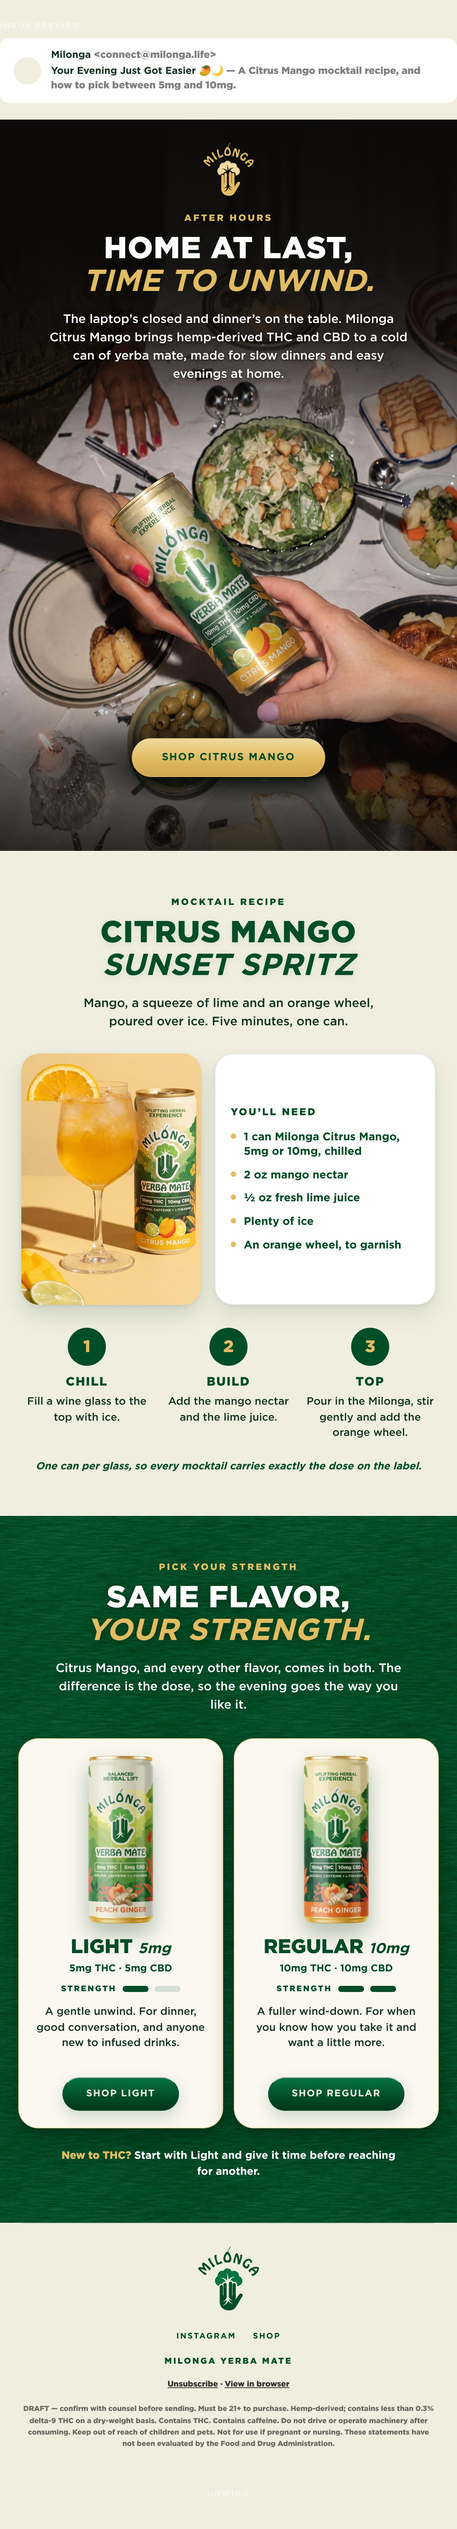
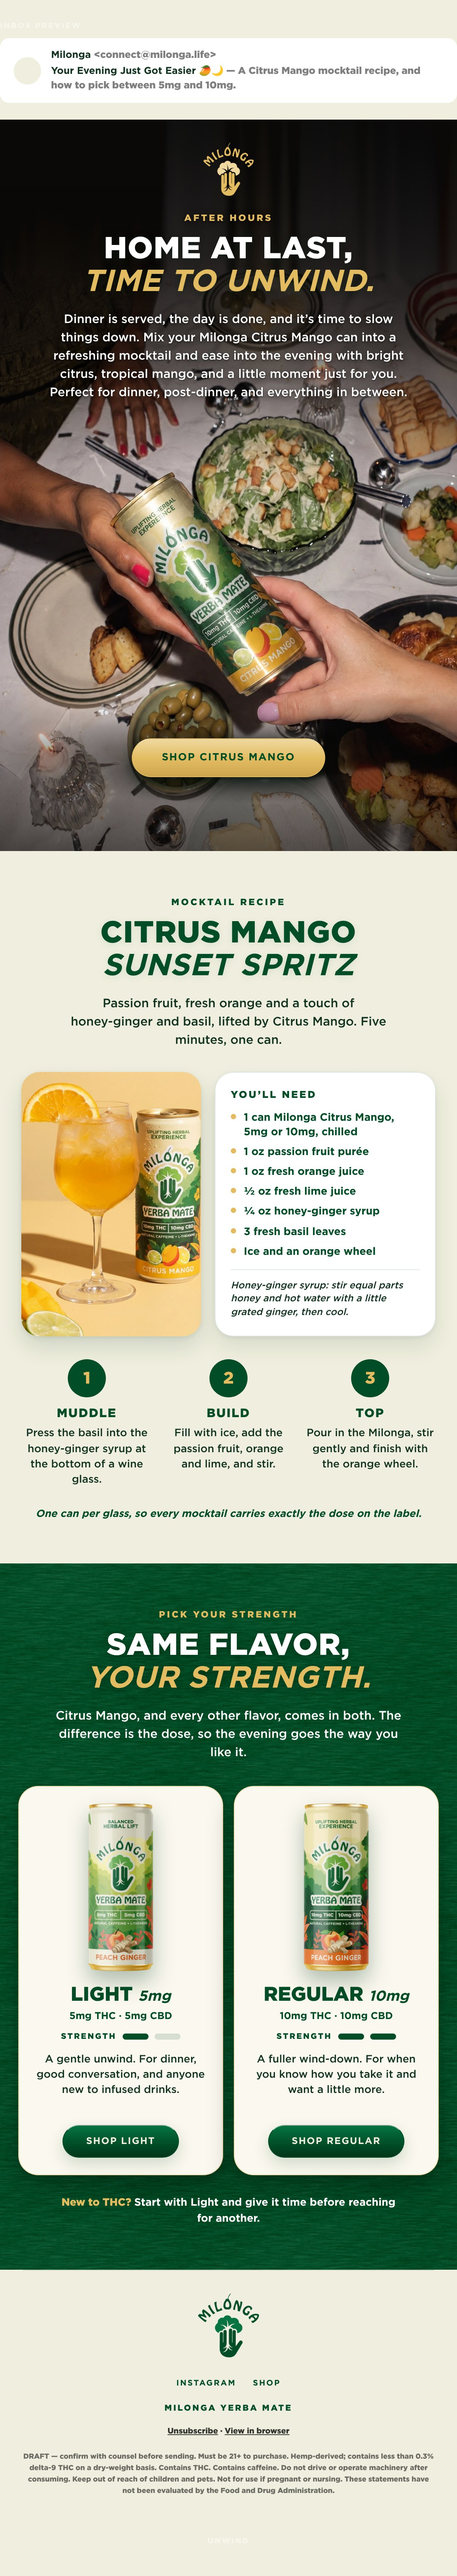
email: Unwind — Bernat's opener copy, lighter grade, richer mocktail
Opener paragraph is Bernat's, word for word; the warm grade over the
dinner photograph is eased about a fifth. The Sunset Spritz now layers
passion fruit, fresh orange, lime, honey-ginger syrup and basil over the
Citrus Mango, with a one-line syrup method, and the steps become Muddle,
Build, Top.

Claude-Session: https://claude.ai/code/session_01NhEtXPnfeCJfN73SqBkUZ5

diff --git a/email-ds/emails/unwind.jsx b/email-ds/emails/unwind.jsx
@@ -42,22 +42,27 @@ function PhotoSlot({ w, h: hh, brief, dark, radius = 0 }) {
 // ── The mocktail ─────────────────────────────────────────────────────────
 // One can per glass, so each mocktail carries exactly the dose on the can's
 // label; no alcohol in the recipe.
-// THE RECIPE FOLLOWS THE PHOTOGRAPH Bernat sent: a wine glass over ice, an
-// orange wheel on the rim, mango and lime beside it.
+// THE RECIPE FOLLOWS THE PHOTOGRAPH Bernat sent — a wine glass over ice,
+// an orange wheel on the rim — and layers more flavour on the can's citrus
+// and mango (Bernat): passion fruit, fresh orange, lime, honey-ginger and
+// basil. Nothing in it contains alcohol (no bitters).
 const RECIPE = {
   name: ['Citrus Mango', 'Sunset Spritz'],
-  intro: 'Mango, a squeeze of lime and an orange wheel, poured over ice. Five minutes, one can.',
+  intro: 'Passion fruit, fresh orange and a touch of honey-ginger and basil, lifted by Citrus Mango. Five minutes, one can.',
   ingredients: [
     '1 can Milonga Citrus Mango, 5mg or 10mg, chilled',
-    '2 oz mango nectar',
+    '1 oz passion fruit purée',
+    '1 oz fresh orange juice',
     '½ oz fresh lime juice',
-    'Plenty of ice',
-    'An orange wheel, to garnish',
+    '¼ oz honey-ginger syrup',
+    '3 fresh basil leaves',
+    'Ice and an orange wheel',
   ],
+  syrup: 'Honey-ginger syrup: stir equal parts honey and hot water with a little grated ginger, then cool.',
   steps: [
-    ['Chill', 'Fill a wine glass to the top with ice.'],
-    ['Build', 'Add the mango nectar and the lime juice.'],
-    ['Top', 'Pour in the Milonga, stir gently and add the orange wheel.'],
+    ['Muddle', 'Press the basil into the honey-ginger syrup at the bottom of a wine glass.'],
+    ['Build', 'Fill with ice, add the passion fruit, orange and lime, and stir.'],
+    ['Top', 'Pour in the Milonga, stir gently and finish with the orange wheel.'],
   ],
   note: 'One can per glass, so every mocktail carries exactly the dose on the label.',
 };
@@ -81,11 +86,13 @@ const HERO_H = 960;
 const CTA_TOP = 812;
 
 const SECTION_1_ALT =
-  'Milonga. After hours. Home at last, time to unwind. The laptop’s closed and ' +
-  'dinner’s on the table. Milonga Citrus Mango brings hemp-derived THC and CBD ' +
-  'to a cold can of yerba mate, made for slow dinners and easy evenings at ' +
-  'home. Two hands pass a can of Milonga Citrus Mango, 10mg THC and 10mg CBD, ' +
-  'across a candlelit dinner table. Shop Citrus Mango.';
+  'Milonga. After hours. Home at last, time to unwind. Dinner is served, the ' +
+  'day is done, and it’s time to slow things down. Mix your Milonga Citrus ' +
+  'Mango can into a refreshing mocktail and ease into the evening with bright ' +
+  'citrus, tropical mango, and a little moment just for you. Perfect for ' +
+  'dinner, post-dinner, and everything in between. Two hands pass a can of ' +
+  'Milonga Citrus Mango, 10mg THC and 10mg CBD, across a candlelit dinner ' +
+  'table. Shop Citrus Mango.';
 const SECTION_2_PHOTO_ALT =
   'The Citrus Mango Sunset Spritz in a wine glass over ice with an orange ' +
   'wheel, beside a can of Milonga Citrus Mango, 10mg THC and 10mg CBD, with ' +
@@ -145,16 +152,16 @@ function Unwind({ shopHref = '#shop' }) {
       h('img', { src: '../public/product/unwind-dinner-tall.jpg', alt: SECTION_1_ALT,
         style: { position: 'absolute', top: 0, left: 0, width: 600, height: 'auto', display: 'block' } }),
       h('div', { style: { position: 'absolute', inset: 0,
-        background: 'linear-gradient(180deg, rgba(13,11,9,0.95) 0%, rgba(13,11,9,0.88) 18%, rgba(13,11,9,0.68) 30%, rgba(13,11,9,0.3) 38%, rgba(13,11,9,0) 45%, rgba(13,11,9,0) 76%, rgba(13,11,9,0.5) 88%, rgba(13,11,9,0.82) 100%)' } }),
+        background: 'linear-gradient(180deg, rgba(13,11,9,0.80) 0%, rgba(13,11,9,0.70) 18%, rgba(13,11,9,0.50) 31%, rgba(13,11,9,0.2) 40%, rgba(13,11,9,0) 47%, rgba(13,11,9,0) 78%, rgba(13,11,9,0.36) 89%, rgba(13,11,9,0.64) 100%)' } }),
       h('div', { style: { position: 'absolute', top: 30, left: 36, right: 36, textAlign: 'center',
         textShadow: '0 2px 10px rgba(0,0,0,0.55), 0 1px 2px rgba(0,0,0,0.45)' } },
         h(M.Logo, { tone: 'gold', variant: 'primary', height: 70 }),
         h('div', { style: { marginTop: 18 } }, eyebrow('After hours', GOLD)),
         h(M.Headline, { line1: 'Home at last,', line2: 'time to unwind.', bg: 'forest', size: 40, align: 'center',
           color: '#FFFFFF', line2Color: GOLD, italic: true }),
-        para('The laptop’s closed and dinner’s on the table. Milonga Citrus Mango brings hemp-derived THC and CBD to a cold can of yerba mate, made for slow dinners and easy evenings at home.', '#FFFFFF')),
+        para('Dinner is served, the day is done, and it’s time to slow things down. Mix your Milonga Citrus Mango can into a refreshing mocktail and ease into the evening with bright citrus, tropical mango, and a little moment just for you. Perfect for dinner, post-dinner, and everything in between.', '#FFFFFF')),
       h('div', { style: { position: 'absolute', top: CTA_TOP - 34, left: 0, right: 0, height: 120,
-        background: 'radial-gradient(ellipse 50% 50% at 50% 50%, rgba(13,11,9,0.7) 0%, rgba(13,11,9,0.4) 55%, rgba(13,11,9,0) 100%)' } }),
+        background: 'radial-gradient(ellipse 50% 50% at 50% 50%, rgba(13,11,9,0.55) 0%, rgba(13,11,9,0.3) 55%, rgba(13,11,9,0) 100%)' } }),
       h('div', { style: { position: 'absolute', top: CTA_TOP, left: 0, right: 0, textAlign: 'center' } },
         h('div', { style: { display: 'inline-block', borderRadius: 999,
           boxShadow: '0 10px 24px rgba(0,0,0,0.5), 0 2px 6px rgba(0,0,0,0.4)' } },
@@ -168,11 +175,11 @@ function Unwind({ shopHref = '#shop' }) {
       h('div', { style: { textAlign: 'center' } },
         eyebrow('Mocktail recipe', FOREST),
         h(M.Headline, { line1: RECIPE.name[0], line2: RECIPE.name[1], bg: 'beige', size: 40, align: 'center', italic: true }),
-        para(RECIPE.intro, INK, 440)),
+        para(RECIPE.intro.split('honey-ginger').flatMap((t, i) => i ? [h('span', { key: i, style: { whiteSpace: 'nowrap' } }, 'honey-ginger'), t] : [t]), INK, 440)),
       h('div', { style: { display: 'flex', gap: 18, marginTop: 30, alignItems: 'stretch' } },
         h('div', { style: { flex: '0 0 236px' } },
           h('img', { src: '../public/product/mocktail-citrus-mango-10mg.jpg', alt: SECTION_2_PHOTO_ALT,
-            style: { width: 236, height: 330, objectFit: 'cover', borderRadius: 24, display: 'block',
+            style: { width: 236, height: '100%', minHeight: 330, objectFit: 'cover', borderRadius: 24, display: 'block',
               boxShadow: '0 14px 28px rgba(0,53,27,0.14), 0 2px 6px rgba(0,53,27,0.08)' } })),
         h('div', { style: { flex: 1, background: '#FFFFFF', borderRadius: 24, padding: '22px 20px',
           display: 'flex', flexDirection: 'column', justifyContent: 'center',
@@ -180,8 +187,10 @@ function Unwind({ shopHref = '#shop' }) {
           h('div', { style: { fontFamily: FONT, fontWeight: 900, fontSize: 13, letterSpacing: '0.16em',
             textTransform: 'uppercase', color: FOREST } }, 'You’ll need'),
           RECIPE.ingredients.map((t, i) => h('div', { key: i, style: { display: 'flex', gap: 10, alignItems: 'baseline',
-            marginTop: i ? 11 : 14, fontFamily: FONT, fontWeight: 600, fontSize: 14.5, lineHeight: 1.35, color: FOREST } },
+            marginTop: i ? 8 : 12, fontFamily: FONT, fontWeight: 600, fontSize: 14, lineHeight: 1.3, color: FOREST } },
             h('span', { style: { flex: 'none', width: 7, height: 7, borderRadius: 999, background: GOLD, transform: 'translateY(-2px)' } }), t)),
+          h('div', { style: { marginTop: 14, paddingTop: 12, borderTop: '1px solid rgba(0,77,39,0.12)',
+            fontFamily: FONT, fontWeight: 500, fontStyle: 'italic', fontSize: 12.5, lineHeight: 1.4, color: INK } }, RECIPE.syrup),
         ),
       ),
       // The three steps across (Process Strip).
